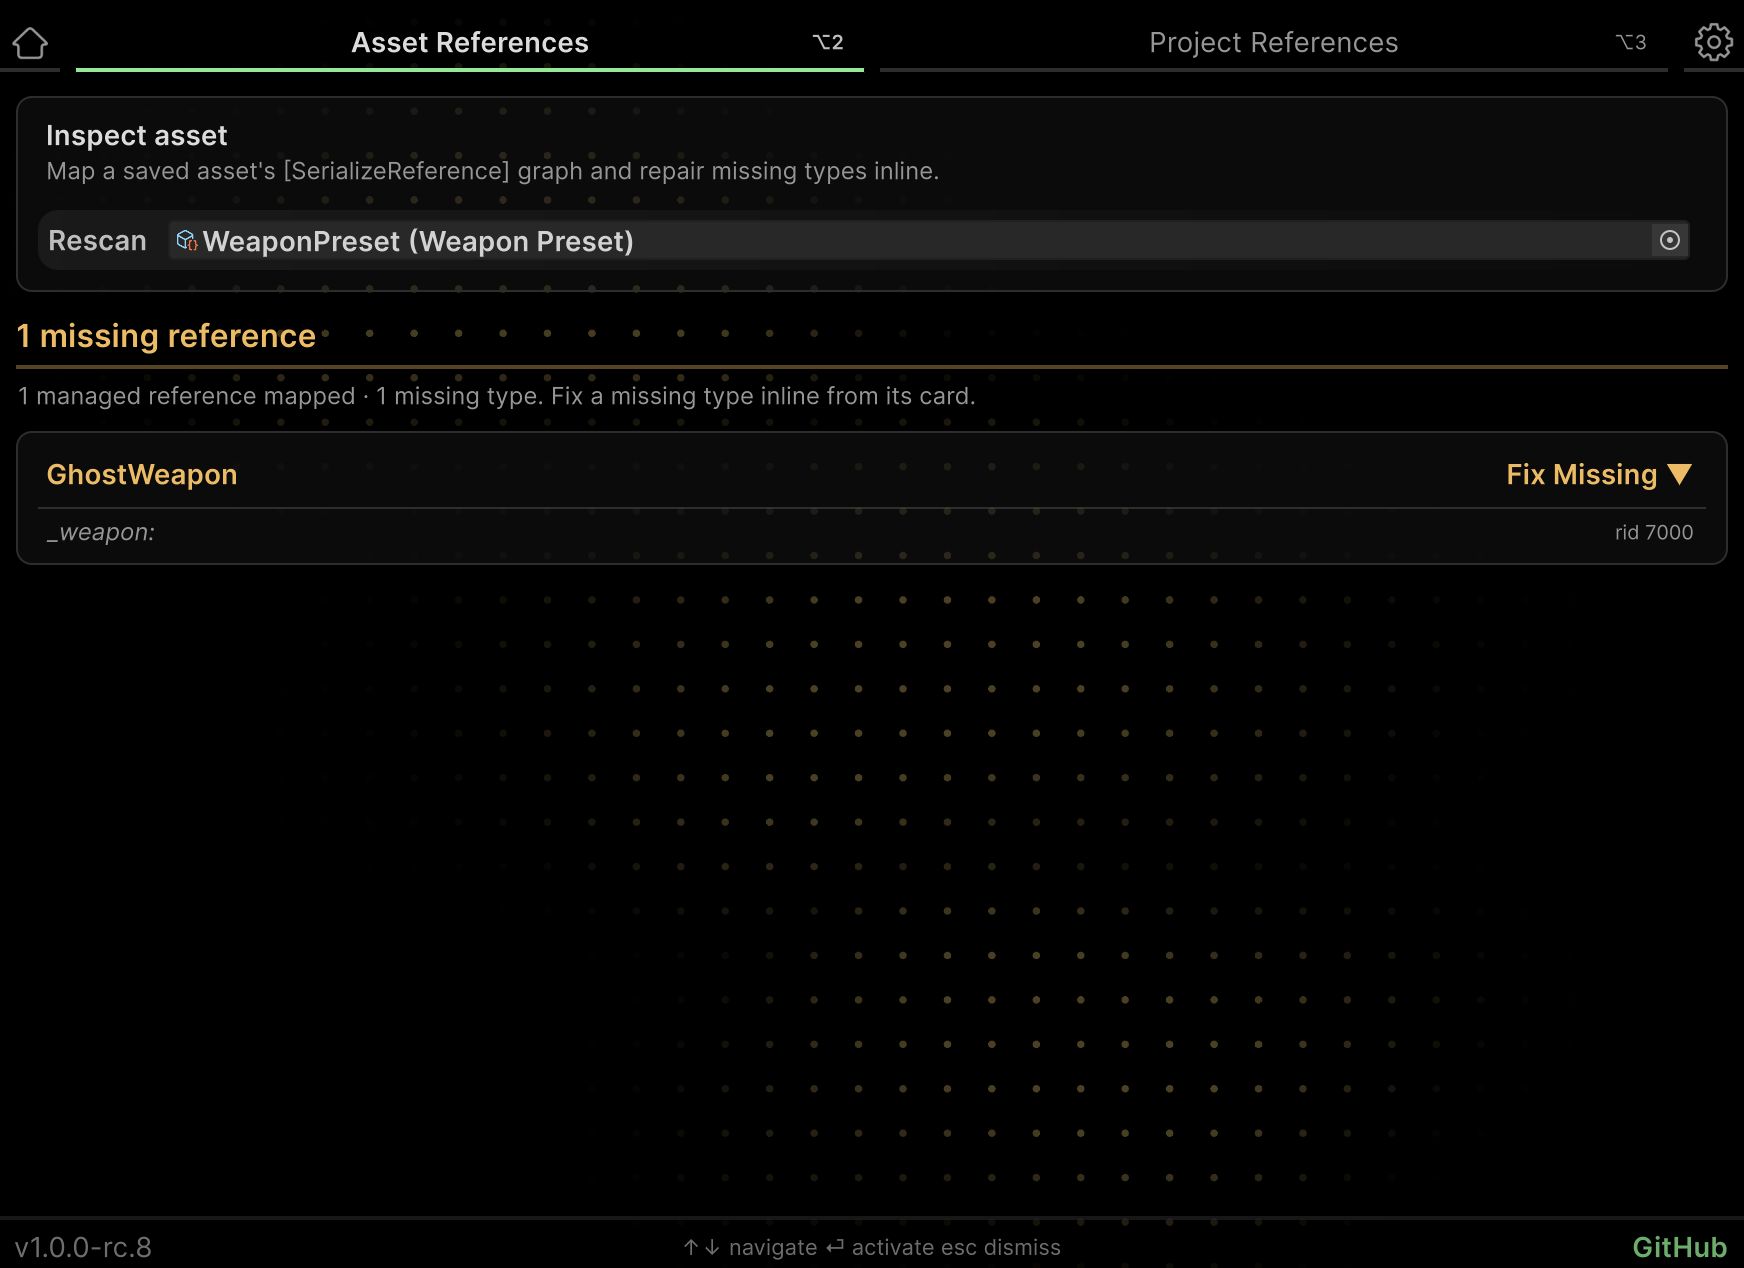
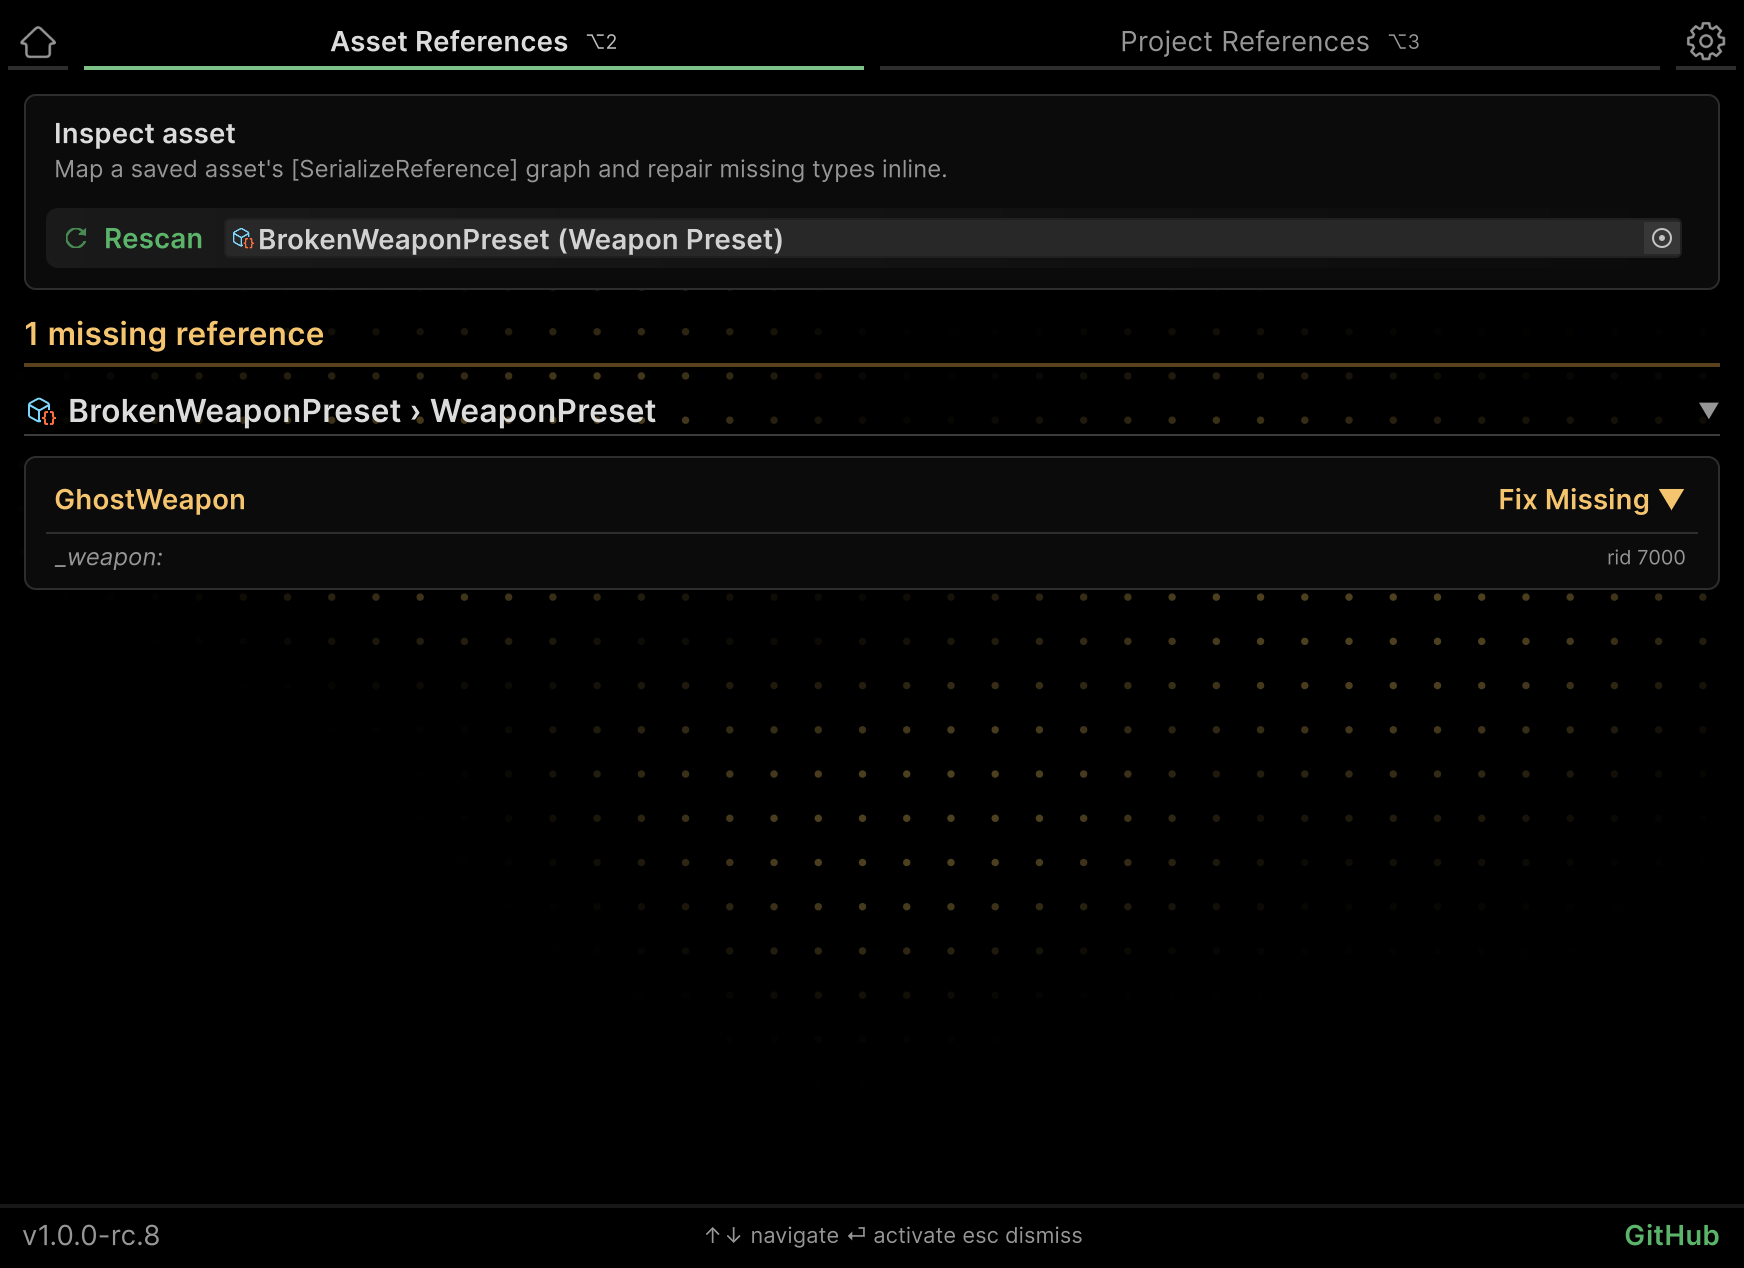
docs: reshoot the reference tooling images after the window redesign
- Reshoot the Project References, Required, prefab override, Asset References and Settings stills and the tooling GIF, dark and light, on main after #442
- Reshoot the four tooling source frames and rewrite their README; drop the stale screen-capture scripts
- Name the Migrate all and type-name Smart Fix targets with their namespace, as the window now does

diff --git a/docs/media/tooling/README.md b/docs/media/tooling/README.md
@@ -1,15 +1,24 @@
 # Tooling documentation media
 
-> Provenance only. The published `aspid_fasttools_serialize_reference_tooling.gif` (and its `-light` twin) was re-shot
-> in #264 and #275 from the DocsMedia harness (`Aspid.FastTools/Assets/DevTests/SerializeReferences/Scripts/DocsMedia`);
-> `encode.sh` rebuilds this earlier recording as `tooling.gif` here.
+> Provenance only. These are the four states of the repair that the published
+> `aspid_fasttools_serialize_reference_tooling.gif` (and its `-light` twin) shows, without a cursor; the published GIF is
+> built separately, with a composited cursor. `encode.sh` rebuilds them as `tooling.gif` here.
 
-Recorded in Unity 6000.4.0f1 on 2026-09-13 using Unity CLI and computer use.
+Re-shot after the window redesign (#442) at commit `4dc4beaf` in Unity 6000.6.5f1, in a hidden batch-mode Editor (no
+screen capture). Asset: `Presets/BrokenWeaponPreset.asset` of the SerializeReferences sample (`GhostWeapon` at
+`_weapon`, rid 7000). The FastTools window opens on the Asset References tab at 872×634 logical pixels and is grabbed
+whole, tab strip and footer included: 1744×1268 PNGs, dark skin, no compositing or padding.
 
-`capture.cs.txt` creates a temporary AssetDatabase.CopyAsset copy of BrokenWeaponPreset and an ordinary FastTools Asset References window at (100,100), 880×640 logical pixels. No UI scale override, stylesheet change or picker resizing. Open Fix Missing, search Pistol, blur the search, select the result, and press Return. A SerializedObject read verifies that the real repair preserves Damage 25 and Magazine Size 8.
+| Frame | State |
+|---|---|
+| `01-missing.png` | GhostWeapon card with **Fix Missing** |
+| `02-picker.png` | Picker open, `Pistol` searched, search field blurred |
+| `03-selection.png` | The Pistol result row selected |
+| `04-repaired.png` | **No missing references**, the card shows Pistol with **Change** |
 
-Original PNGs are lossless Retina screen captures, 1744×1268 pixels: `/usr/sbin/screencapture -x -R104,100,872,634 <file.png>`. The crop excludes native title chrome and rounded bottom corners. Move the computer-use pointer to the title bar before each capture. Keep Unity foreground. No compositing, enlargement, cursor removal or artificial padding.
+At this window size the open picker does not fit: frames 02 and 03 may show a thin scrollbar, and the window footer
+covers the card's bottom border. That is how the real window looks at 872×634.
 
-Run `sh docs/media/tooling/encode.sh`; it never writes the published GIF. States last 1.5 / 1 / 0.6 / 1 seconds; `-t 4.1` prevents the repeated terminal frame from adding an extra pause. The result holds No missing references for one second. Encoding uses 10 fps, a shared 256-color palette and sierra2_4a dithering at the original pixel dimensions.
-
-After capture the temporary window and asset folder were removed, selection restored, and the already-dirty active scene left unsaved and outside Play Mode. Session-specific instance IDs must be discovered again before reuse.
+Run `sh docs/media/tooling/encode.sh`; it never writes the published GIF. States last 1.5 / 1 / 0.6 / 1 seconds; `-t 4.1`
+prevents the repeated terminal frame from adding an extra pause. Encoding uses 10 fps, a shared 256-color palette and
+sierra2_4a dithering at the original pixel dimensions.

diff --git a/Website/docs/06-serialize-reference-tooling.md b/Website/docs/06-serialize-reference-tooling.md
@@ -58,16 +58,16 @@ A save that resizes a list, and every save of a prefab, writes the list's missin
 
 Open **Tools → Aspid 🐍 → FastTools → Project References**; Asset References is the next tab of the same window. **Scan Project** reads the `.prefab`, `.asset`, `.unity`, `.controller` and `.playable` files under `Assets/`, apart from [**Excluded scan folders**](07-serialize-reference-validation.md#scan-scope). A progress bar shows each sweep; **Cancel** stops the scan and keeps the earlier results. A group lists its first 200 entries, and **Show more** adds the next 200.
 
-![Project References with Fix all, Smart Fix → Pistol and Migrate all groups](Images/aspid_fasttools_serialize_reference_project_references.png)
+![Project References: Broken groups with Fix all and Smart Fix, a Renamed group with Migrate all](Images/aspid_fasttools_serialize_reference_project_references.png)
 
 ### Group actions
 
 | Group | Header button | Row under the header |
 |---|---|---|
 | Missing type | **Fix all ▼** — pick a class for every entry | **Smart Fix → Game.Weapons.Pistol** — apply the suggested class; the tooltip gives the reason |
-| Renamed with <code lang="csharp">[MovedFrom]</code> | **Reassign all ▼** — pick a different class instead of the new name | **Migrate all → Crossbow** — write the new name, see [Migrations](#migrations-with-movedfrom) |
+| Renamed with <code lang="csharp">[MovedFrom]</code> | **Reassign all ▼** — pick a different class instead of the new name | **Migrate all → Game.Weapons.Crossbow** — write the new name, see [Migrations](#migrations-with-movedfrom) |
 
-The **Fix all**, **Reassign all** and **Migrate all** labels show the number of entries in the group, for example **Fix all (4) ▼** and **Migrate all (4) → Crossbow**.
+The **Fix all**, **Reassign all** and **Migrate all** labels show the number of entries in the group, for example **Fix all (4) ▼** and **Migrate all (4) → Game.Weapons.Crossbow**.
 
 Every action asks for **Rewrite**. `<None>` in the class picker clears the group's references and deletes their data, fields sharing the same `rid` included; it asks for **Clear** and has no Undo. In open and unsaved files it clears the references in memory, until you save.
 
@@ -95,7 +95,7 @@ A <code lang="class-name">SerializableType</code> or <code lang="class-name">Ser
 | Action | What it does |
 |---|---|
 | **Fix all ▼** | Opens the type picker with the constraint of the fields and writes the picked type to every field of the group |
-| **Smart Fix → Spear** | Writes the only compatible type with the same class name |
+| **Smart Fix → Game.Combat.Spear** | Writes the only compatible type with the same class name |
 
 A <code lang="class-name">SerializableMonoScript</code> field also gets the script of the picked type. A prefab instance override is rewritten as well, because it stores the name as a plain value.
 
